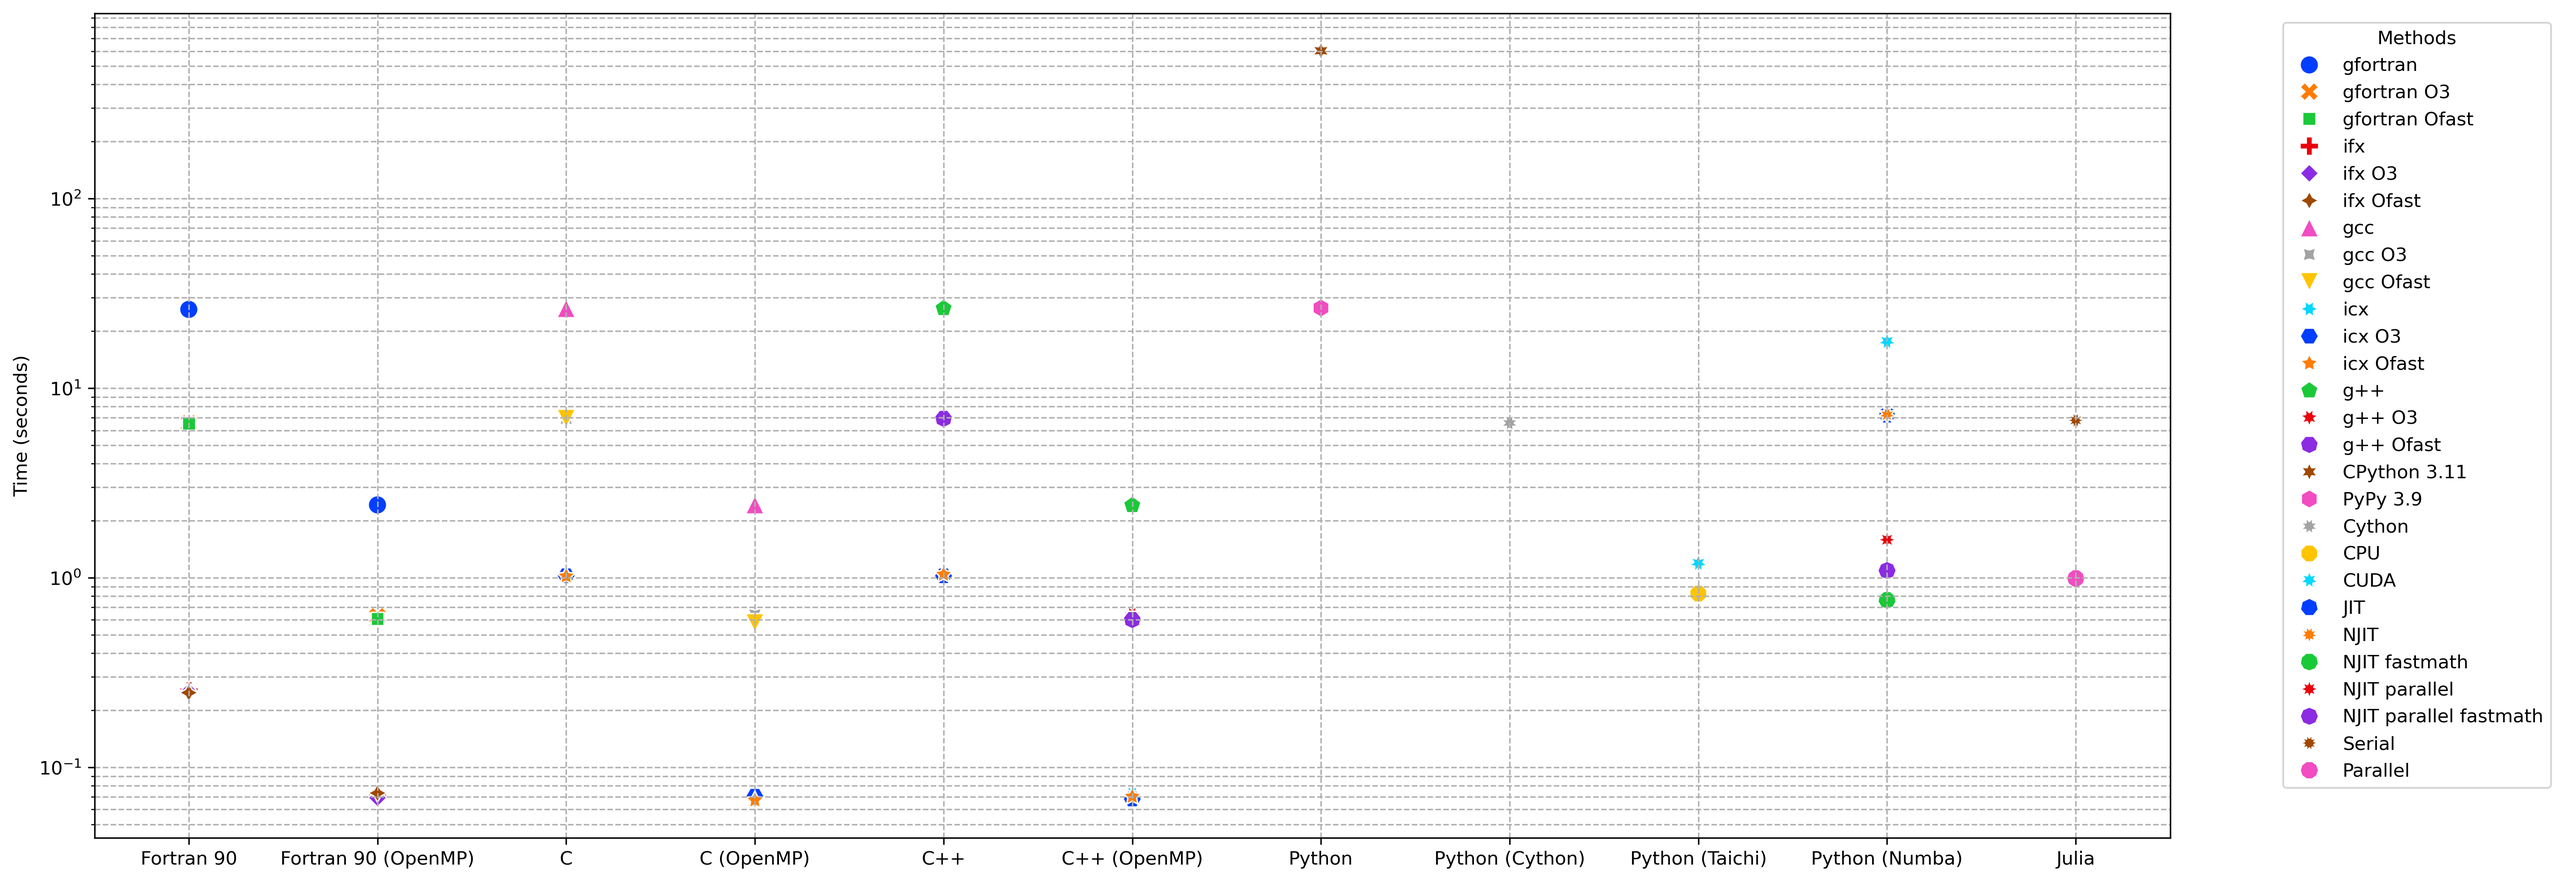
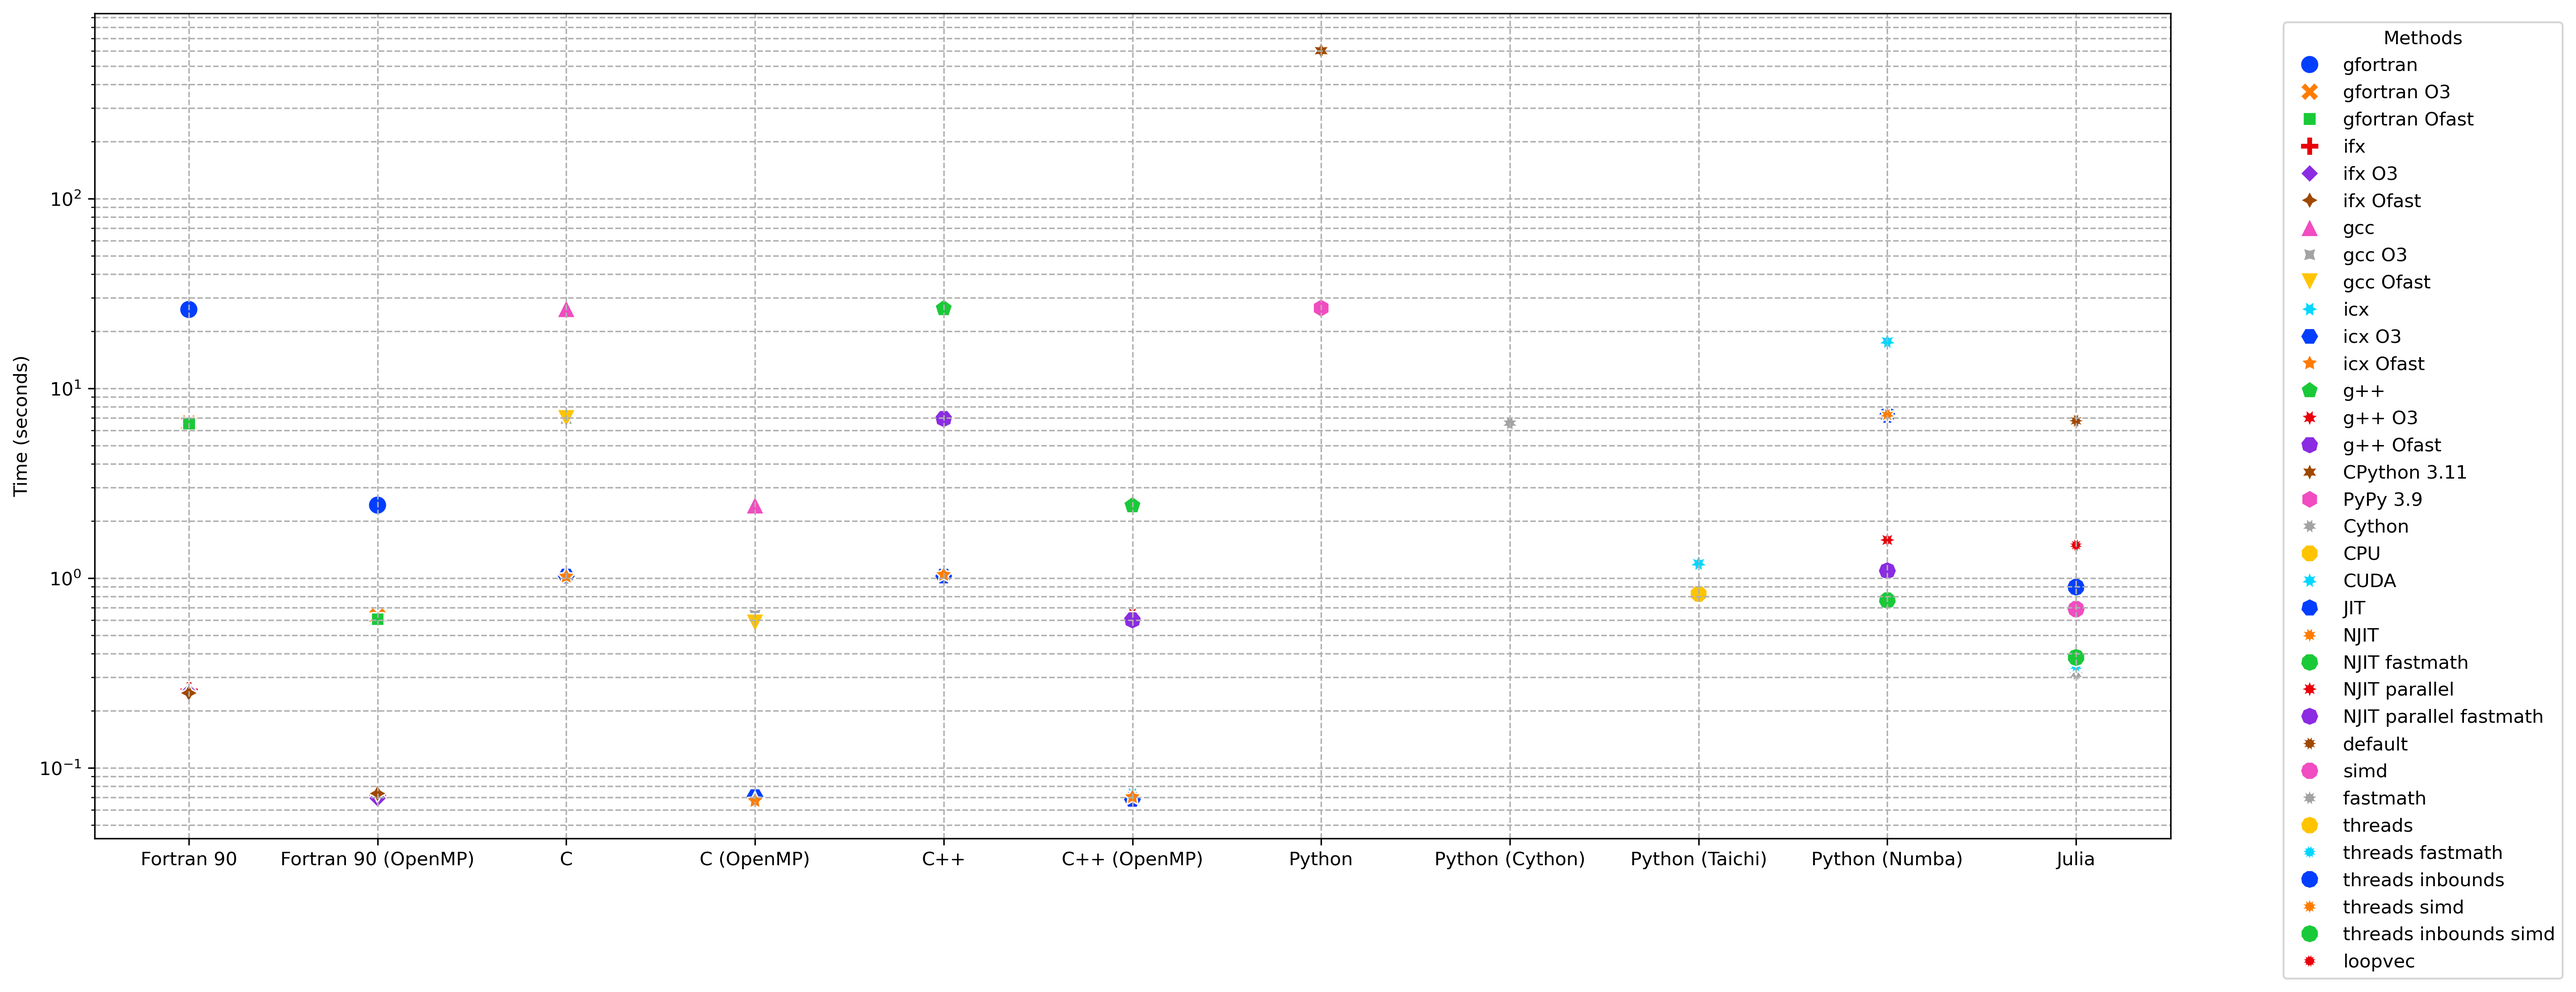
more julia codes

diff --git a/src/nested_for_loops/results.md b/src/nested_for_loops/results.md
@@ -609,25 +609,104 @@ TotalMilliseconds : 17634.5317
 
 ## Julia
 
+`> $Env:JULIA_NUM_THREADS = "auto"`
+
 ```
 > Measure-Command { julia main.jl | Out-Default }
 Result: 100000.02207306116
-Ticks             : 67699559
-TotalDays         : 7.83559710648148E-05
-TotalHours        : 0.00188054330555556
-TotalMinutes      : 0.112832598333333
-TotalSeconds      : 6.7699559
-TotalMilliseconds : 6769.9559
+Ticks             : 67472503
+TotalDays         : 7.80931747685185E-05
+TotalHours        : 0.00187423619444444
+TotalMinutes      : 0.112454171666667
+TotalSeconds      : 6.7472503
+TotalMilliseconds : 6747.2503
 ```
 
 ```
-> $Env:JULIA_NUM_THREADS = "auto"
-> Measure-Command { julia main_parallel.jl | Out-Default }
+> Measure-Command { julia main_simd.jl | Out-Default }
+Result: 100000.00137956644
+Ticks             : 6864702
+TotalDays         : 7.94525694444444E-06
+TotalHours        : 0.000190686166666667
+TotalMinutes      : 0.01144117
+TotalSeconds      : 0.6864702
+TotalMilliseconds : 686.4702
+```
+
+```
+> Measure-Command { julia main_fastmath.jl | Out-Default }
+Result: 99999.99991278863
+Ticks             : 3132524
+TotalDays         : 3.62560648148148E-06
+TotalHours        : 8.70145555555556E-05
+TotalMinutes      : 0.00522087333333333
+TotalSeconds      : 0.3132524
+TotalMilliseconds : 313.2524
+```
+
+```
+> Measure-Command { julia main_threads.jl | Out-Default }
 Result: 99999.99999991048
-Ticks             : 9933752
-TotalDays         : 1.14973981481481E-05
-TotalHours        : 0.000275937555555556
-TotalMinutes      : 0.0165562533333333
-TotalSeconds      : 0.9933752
-TotalMilliseconds : 993.3752
+Ticks             : 8966069
+TotalDays         : 1.03773946759259E-05
+TotalHours        : 0.000249057472222222
+TotalMinutes      : 0.0149434483333333
+TotalSeconds      : 0.8966069
+TotalMilliseconds : 896.6069
+```
+
+```
+> Measure-Command { julia main_threads_fastmath.jl | Out-Default }
+Result: 99999.99999999999
+Ticks             : 3424389
+TotalDays         : 3.96341319444444E-06
+TotalHours        : 9.51219166666667E-05
+TotalMinutes      : 0.005707315
+TotalSeconds      : 0.3424389
+TotalMilliseconds : 342.4389
+```
+
+```
+> Measure-Command { julia main_threads_inbounds.jl | Out-Default }
+Result: 99999.99999991048
+Ticks             : 8966765
+TotalDays         : 1.03782002314815E-05
+TotalHours        : 0.000249076805555556
+TotalMinutes      : 0.0149446083333333
+TotalSeconds      : 0.8966765
+TotalMilliseconds : 896.6765
+```
+
+```
+> Measure-Command { julia main_threads_simd.jl | Out-Default }
+Result: 100000.00000000036
+Ticks             : 3843874
+TotalDays         : 4.44892824074074E-06
+TotalHours        : 0.000106774277777778
+TotalMinutes      : 0.00640645666666667
+TotalSeconds      : 0.3843874
+TotalMilliseconds : 384.3874
+```
+
+```
+> Measure-Command { julia main_threads_inbounds_simd.jl | Out-Default }
+Result: 100000.00000000036
+Ticks             : 3814411
+TotalDays         : 4.4148275462963E-06
+TotalHours        : 0.000105955861111111
+TotalMinutes      : 0.00635735166666667
+TotalSeconds      : 0.3814411
+TotalMilliseconds : 381.4411
+```
+
+
+```
+> Measure-Command { julia main_loopvec.jl | Out-Default }
+Result: 99999.99993092171
+Ticks             : 14907689
+TotalDays         : 1.72542696759259E-05
+TotalHours        : 0.000414102472222222
+TotalMinutes      : 0.0248461483333333
+TotalSeconds      : 1.4907689
+TotalMilliseconds : 1490.7689
 ```
